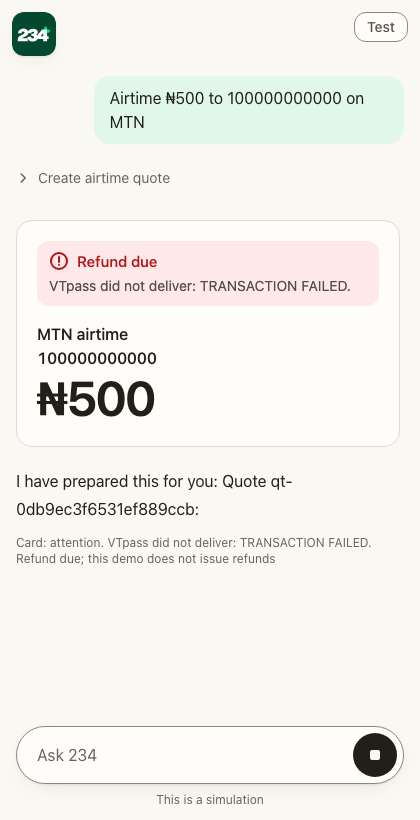
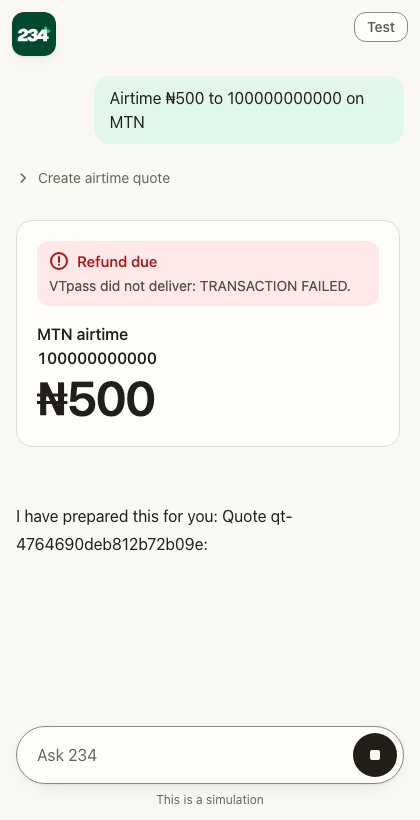
In another host a card posts how its quote ended, once, for an ending it saw; a card shown again asks once how its quote stands

Changed region(s): [[0.031, 0.5793, 0.8667, 0.7012]]

diff --git a/checkout/src/checkout/card/card.html b/checkout/src/checkout/card/card.html
@@ -167,7 +167,7 @@ const McpApp = (() => {
 
   async function connect(appInfo, appCapabilities = {}) {
     const hello = await request("ui/initialize", { appInfo, appCapabilities, protocolVersion: PROTOCOL_VERSION });
-    host = { capabilities: hello.hostCapabilities ?? {}, context: hello.hostContext ?? {} };
+    host = { capabilities: hello.hostCapabilities ?? {}, context: hello.hostContext ?? {}, info: hello.hostInfo ?? {} };
     notify("ui/notifications/initialized");
     reportSize();
     return hello;
@@ -363,7 +363,9 @@ const InlineCheckout = (() => {
 (() => {
   const POLL_MS = 2000;
   const FINISHED = ["succeeded", "attention", "failed", "abandoned", "expired", "declined", "unavailable"];
-  const state = { quote: null, token: null, accessCode: null, busy: false, notice: null, shown: "", told: null, polling: false };
+  const state = { quote: null, token: null, accessCode: null, busy: false, notice: null, shown: "", told: null, polling: false, livePhase: null, applied: 0 };
+  // 234's own chat puts a card's outcome in the thread itself; any other host (Claude, ChatGPT) is sent it.
+  const OWN_HOST = "checkout-host";
   const root = document.getElementById("root");
 
   const fromTemplate = (id) => document.getElementById(id).content.firstElementChild.cloneNode(true);
@@ -562,7 +564,12 @@ const InlineCheckout = (() => {
     return { quote, token: result._meta?.approvalToken ?? null, accessCode: result._meta?.paystack?.accessCode ?? null };
   }
 
-  function apply(outcome) {
+  // `live`: the answer of a call this card made now, not the snapshot the card was created with (a reloaded
+  // conversation shows an old quote as it was, then the first poll says how it ended).
+  function apply(outcome, live = true) {
+    state.applied += 1;
+    const before = state.livePhase;
+    if (live && outcome.quote) state.livePhase = outcome.quote.phase;
     if (outcome.gone && state.quote) {
       state.quote = { ...state.quote, phase: "gone", poll: false, checkoutUrl: null, tracking: null, receipt: null };
       state.accessCode = null;
@@ -586,17 +593,22 @@ const InlineCheckout = (() => {
       state.shown = shown;
       draw();
     }
-    tellModel();
+    tellModel(before);
     return outcome;
   }
 
-  function tellModel() {
+  // The model always learns how a quote ended. In another host it is also told in the conversation, so it
+  // answers at once, but only for an ending this card saw happen: never again for a quote that had already
+  // ended when the card was shown.
+  function tellModel(before) {
     const q = state.quote;
     if (!q || !FINISHED.includes(q.phase) || state.told === q.phase) return;
     state.told = q.phase;
     const what = q.receipt?.title ?? q.phase.replace(/_/g, " ");
     const text = `The person's card for quote ${q.id} (${q.amount.display}) now shows: ${what}. ${q.message ?? ""}`.trim();
     McpApp.updateModelContext(text).catch(() => undefined);
+    const sawItEnd = before !== null && !FINISHED.includes(before);
+    if (sawItEnd && McpApp.host()?.info?.name !== OWN_HOST) McpApp.message(text).catch(() => undefined);
   }
 
   async function call(tool, args) {
@@ -608,6 +620,8 @@ const InlineCheckout = (() => {
   }
 
   async function run(tool, args) {
+    // The person pressed a button of the phase the card shows: that is what they saw before the answer.
+    state.livePhase ??= state.quote.phase;
     state.busy = true;
     syncBusy();
     try {
@@ -685,7 +699,15 @@ const InlineCheckout = (() => {
     call("verify_quote", { quote_id: q.id }).then(apply).finally(() => { state.polling = false; });
   }, 1000);
 
-  McpApp.on("ui/notifications/tool-result", (result) => { apply(outcomeOf(result)); });
+  // A result can be old (a reloaded conversation shows each card again): a quote it shows as still open is asked
+  // about once, so the card shows how it stands now and not a button for a quote that has ended.
+  McpApp.on("ui/notifications/tool-result", (result) => {
+    const shown = apply(outcomeOf(result), false);
+    if (!shown.quote || FINISHED.includes(shown.quote.phase)) return;
+    // Anything shown after the question (the person's own action, a refusal) is newer than its answer.
+    const asked = state.applied;
+    call("verify_quote", { quote_id: shown.quote.id }).then((now) => state.applied === asked && apply(now));
+  });
   McpApp.on("ui/notifications/tool-input", () => undefined);
   McpApp.on("ui/notifications/tool-cancelled", () => apply({ message: "The request was cancelled." }));
   McpApp.on("ui/resource-teardown", () => ({}));

diff --git a/card/static/card.js b/card/static/card.js
@@ -4,7 +4,9 @@
 (() => {
   const POLL_MS = 2000;
   const FINISHED = ["succeeded", "attention", "failed", "abandoned", "expired", "declined", "unavailable"];
-  const state = { quote: null, token: null, accessCode: null, busy: false, notice: null, shown: "", told: null, polling: false };
+  const state = { quote: null, token: null, accessCode: null, busy: false, notice: null, shown: "", told: null, polling: false, livePhase: null, applied: 0 };
+  // 234's own chat puts a card's outcome in the thread itself; any other host (Claude, ChatGPT) is sent it.
+  const OWN_HOST = "checkout-host";
   const root = document.getElementById("root");
 
   const fromTemplate = (id) => document.getElementById(id).content.firstElementChild.cloneNode(true);
@@ -203,7 +205,12 @@
     return { quote, token: result._meta?.approvalToken ?? null, accessCode: result._meta?.paystack?.accessCode ?? null };
   }
 
-  function apply(outcome) {
+  // `live`: the answer of a call this card made now, not the snapshot the card was created with (a reloaded
+  // conversation shows an old quote as it was, then the first poll says how it ended).
+  function apply(outcome, live = true) {
+    state.applied += 1;
+    const before = state.livePhase;
+    if (live && outcome.quote) state.livePhase = outcome.quote.phase;
     if (outcome.gone && state.quote) {
       state.quote = { ...state.quote, phase: "gone", poll: false, checkoutUrl: null, tracking: null, receipt: null };
       state.accessCode = null;
@@ -227,17 +234,22 @@
       state.shown = shown;
       draw();
     }
-    tellModel();
+    tellModel(before);
     return outcome;
   }
 
-  function tellModel() {
+  // The model always learns how a quote ended. In another host it is also told in the conversation, so it
+  // answers at once, but only for an ending this card saw happen: never again for a quote that had already
+  // ended when the card was shown.
+  function tellModel(before) {
     const q = state.quote;
     if (!q || !FINISHED.includes(q.phase) || state.told === q.phase) return;
     state.told = q.phase;
     const what = q.receipt?.title ?? q.phase.replace(/_/g, " ");
     const text = `The person's card for quote ${q.id} (${q.amount.display}) now shows: ${what}. ${q.message ?? ""}`.trim();
     McpApp.updateModelContext(text).catch(() => undefined);
+    const sawItEnd = before !== null && !FINISHED.includes(before);
+    if (sawItEnd && McpApp.host()?.info?.name !== OWN_HOST) McpApp.message(text).catch(() => undefined);
   }
 
   async function call(tool, args) {
@@ -249,6 +261,8 @@
   }
 
   async function run(tool, args) {
+    // The person pressed a button of the phase the card shows: that is what they saw before the answer.
+    state.livePhase ??= state.quote.phase;
     state.busy = true;
     syncBusy();
     try {
@@ -326,7 +340,15 @@
     call("verify_quote", { quote_id: q.id }).then(apply).finally(() => { state.polling = false; });
   }, 1000);
 
-  McpApp.on("ui/notifications/tool-result", (result) => { apply(outcomeOf(result)); });
+  // A result can be old (a reloaded conversation shows each card again): a quote it shows as still open is asked
+  // about once, so the card shows how it stands now and not a button for a quote that has ended.
+  McpApp.on("ui/notifications/tool-result", (result) => {
+    const shown = apply(outcomeOf(result), false);
+    if (!shown.quote || FINISHED.includes(shown.quote.phase)) return;
+    // Anything shown after the question (the person's own action, a refusal) is newer than its answer.
+    const asked = state.applied;
+    call("verify_quote", { quote_id: shown.quote.id }).then((now) => state.applied === asked && apply(now));
+  });
   McpApp.on("ui/notifications/tool-input", () => undefined);
   McpApp.on("ui/notifications/tool-cancelled", () => apply({ message: "The request was cancelled." }));
   McpApp.on("ui/resource-teardown", () => ({}));

diff --git a/conformance/host-page.js b/conformance/host-page.js
@@ -21,14 +21,16 @@ const HOSTS = {
   claims: { capabilities: { sandbox: { csp: PAYSTACK } }, context: { displayMode: "inline", availableDisplayModes: ["inline", "fullscreen"] } },
   "no-fullscreen": { capabilities: { sandbox: { csp: PAYSTACK } }, context: { displayMode: "inline", availableDisplayModes: ["inline"] } },
   blocks: { capabilities: { sandbox: { csp: PAYSTACK } }, context: { displayMode: "inline", availableDisplayModes: ["inline", "fullscreen"] } },
+  own: { capabilities: {}, context: {}, name: "checkout-host" },
 };
 
-async function mount(uri, variant = "plain") {
+// `previous`: a tool result shown before, handed to the card again as a host does on a reloaded conversation.
+async function mount(uri, variant = "plain", previous = null) {
   const host = HOSTS[variant];
-  const quote = await post("/api/quote", {});
+  const quote = previous ?? (await post("/api/quote", {}));
   const html = await (await fetch(`/api/card?uri=${encodeURIComponent(uri)}`)).text();
   const frame = document.getElementById("card");
-  const bridge = new AppBridge(null, { name: "conformance-host", version: "0.1.0" }, { openLinks: {}, serverTools: {}, updateModelContext: { text: {} }, ...host.capabilities }, { hostContext: host.context });
+  const bridge = new AppBridge(null, { name: host.name ?? "conformance-host", version: "0.1.0" }, { openLinks: {}, serverTools: {}, updateModelContext: { text: {} }, ...host.capabilities }, { hostContext: host.context });
   bridge.onrequestdisplaymode = async ({ mode }) => {
     record("displaymode", mode);
     return { mode: variant === "blocks" && mode === "fullscreen" ? "fullscreen" : "inline" };

diff --git a/checkout/src/checkout/card/memory.html b/checkout/src/checkout/card/memory.html
@@ -120,7 +120,7 @@ const McpApp = (() => {
 
   async function connect(appInfo, appCapabilities = {}) {
     const hello = await request("ui/initialize", { appInfo, appCapabilities, protocolVersion: PROTOCOL_VERSION });
-    host = { capabilities: hello.hostCapabilities ?? {}, context: hello.hostContext ?? {} };
+    host = { capabilities: hello.hostCapabilities ?? {}, context: hello.hostContext ?? {}, info: hello.hostInfo ?? {} };
     notify("ui/notifications/initialized");
     reportSize();
     return hello;

diff --git a/checkout/src/checkout/card/menu.html b/checkout/src/checkout/card/menu.html
@@ -205,7 +205,7 @@ const McpApp = (() => {
 
   async function connect(appInfo, appCapabilities = {}) {
     const hello = await request("ui/initialize", { appInfo, appCapabilities, protocolVersion: PROTOCOL_VERSION });
-    host = { capabilities: hello.hostCapabilities ?? {}, context: hello.hostContext ?? {} };
+    host = { capabilities: hello.hostCapabilities ?? {}, context: hello.hostContext ?? {}, info: hello.hostInfo ?? {} };
     notify("ui/notifications/initialized");
     reportSize();
     return hello;

diff --git a/card/static/mcp-app.js b/card/static/mcp-app.js
@@ -81,7 +81,7 @@ const McpApp = (() => {
 
   async function connect(appInfo, appCapabilities = {}) {
     const hello = await request("ui/initialize", { appInfo, appCapabilities, protocolVersion: PROTOCOL_VERSION });
-    host = { capabilities: hello.hostCapabilities ?? {}, context: hello.hostContext ?? {} };
+    host = { capabilities: hello.hostCapabilities ?? {}, context: hello.hostContext ?? {}, info: hello.hostInfo ?? {} };
     notify("ui/notifications/initialized");
     reportSize();
     return hello;
